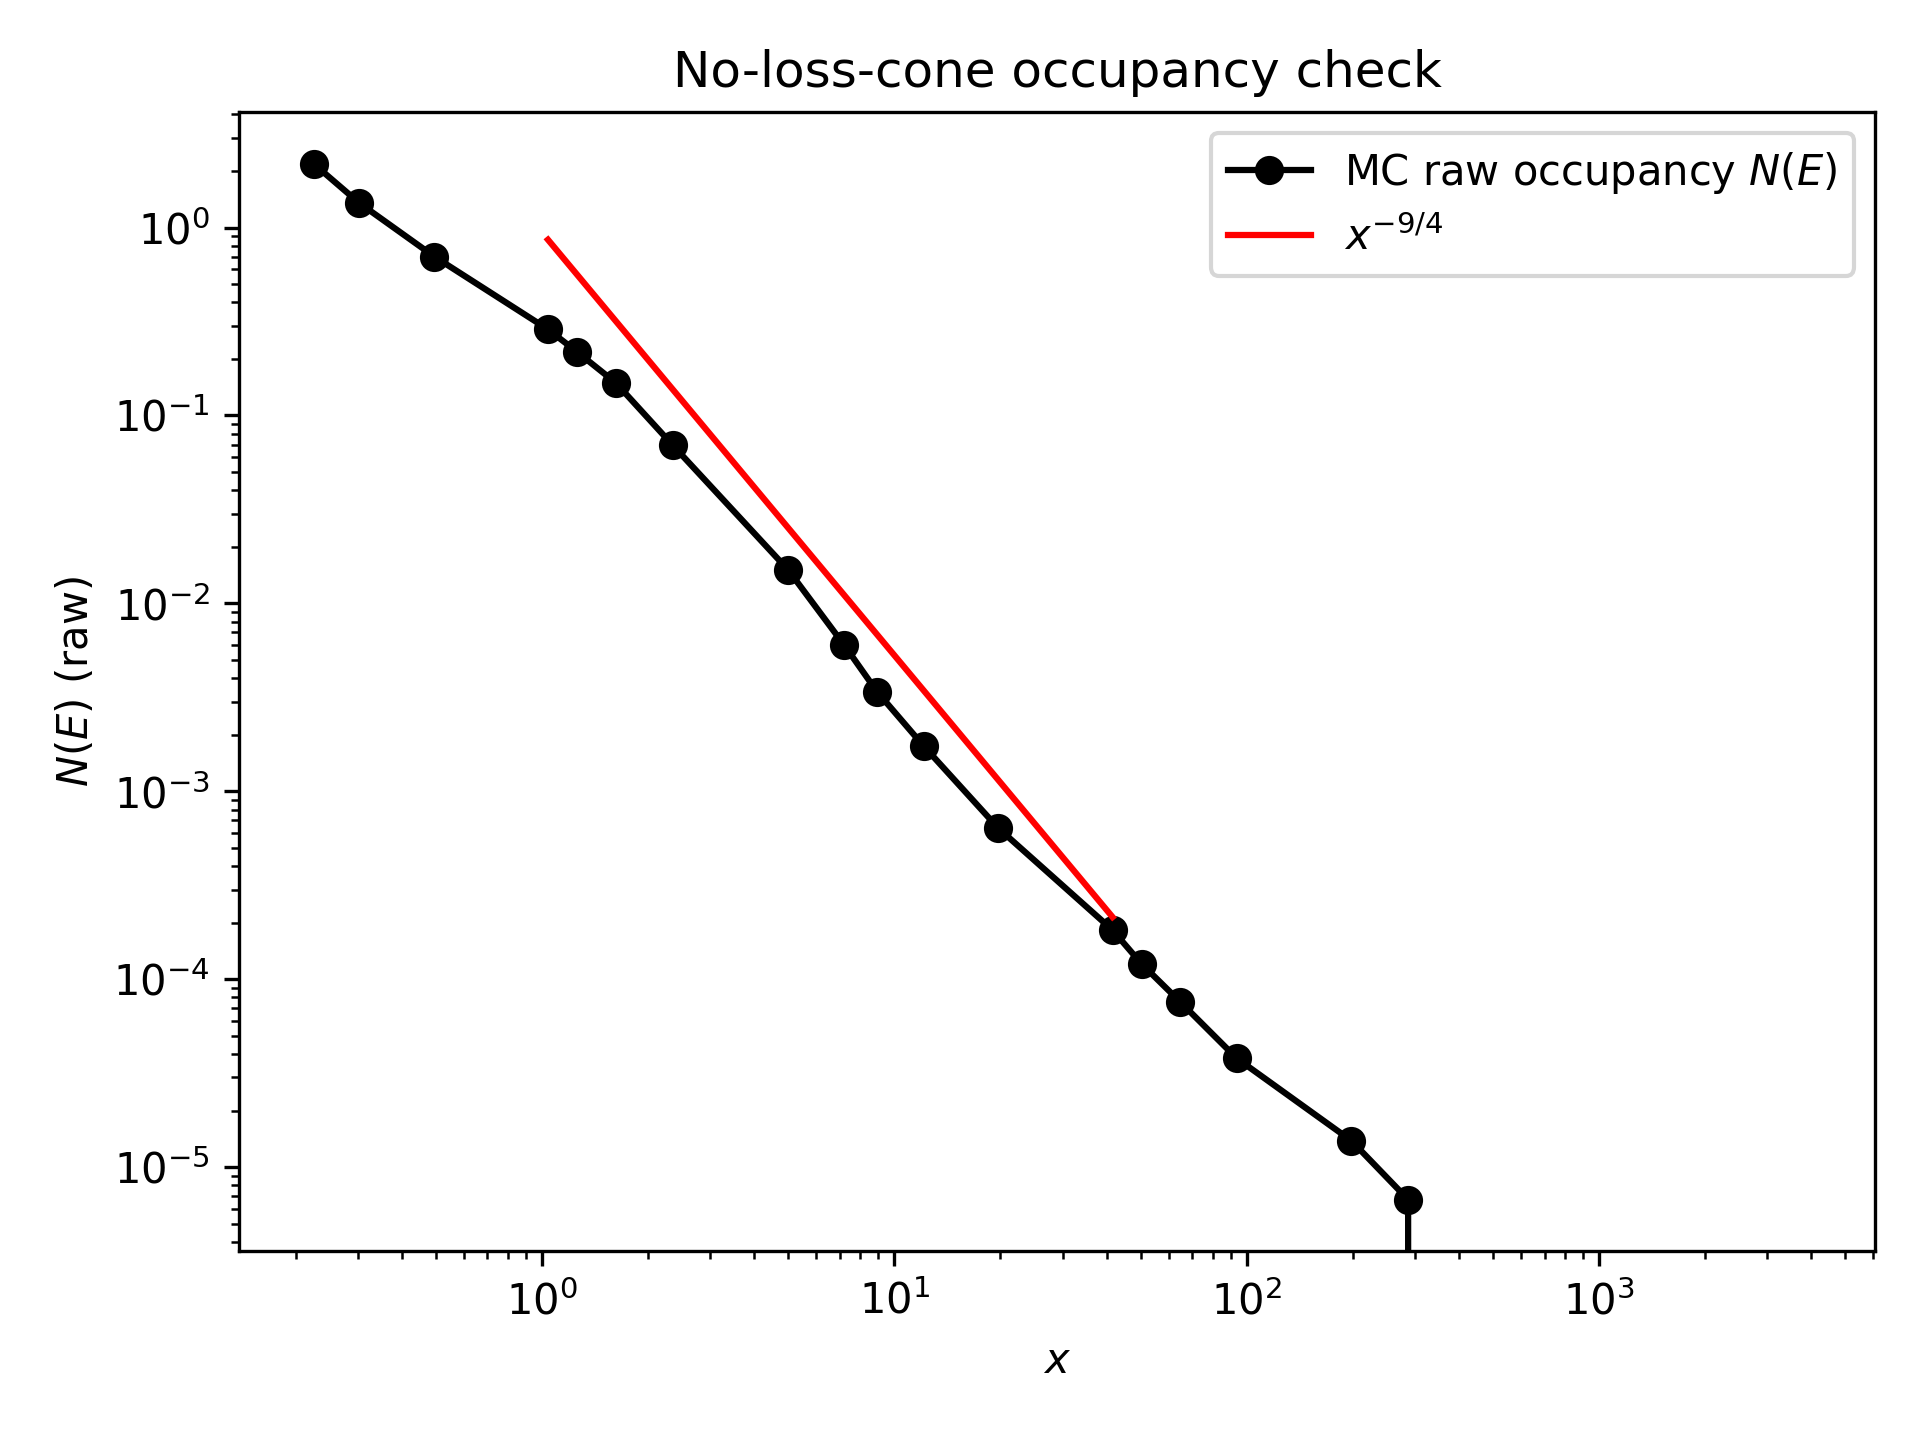
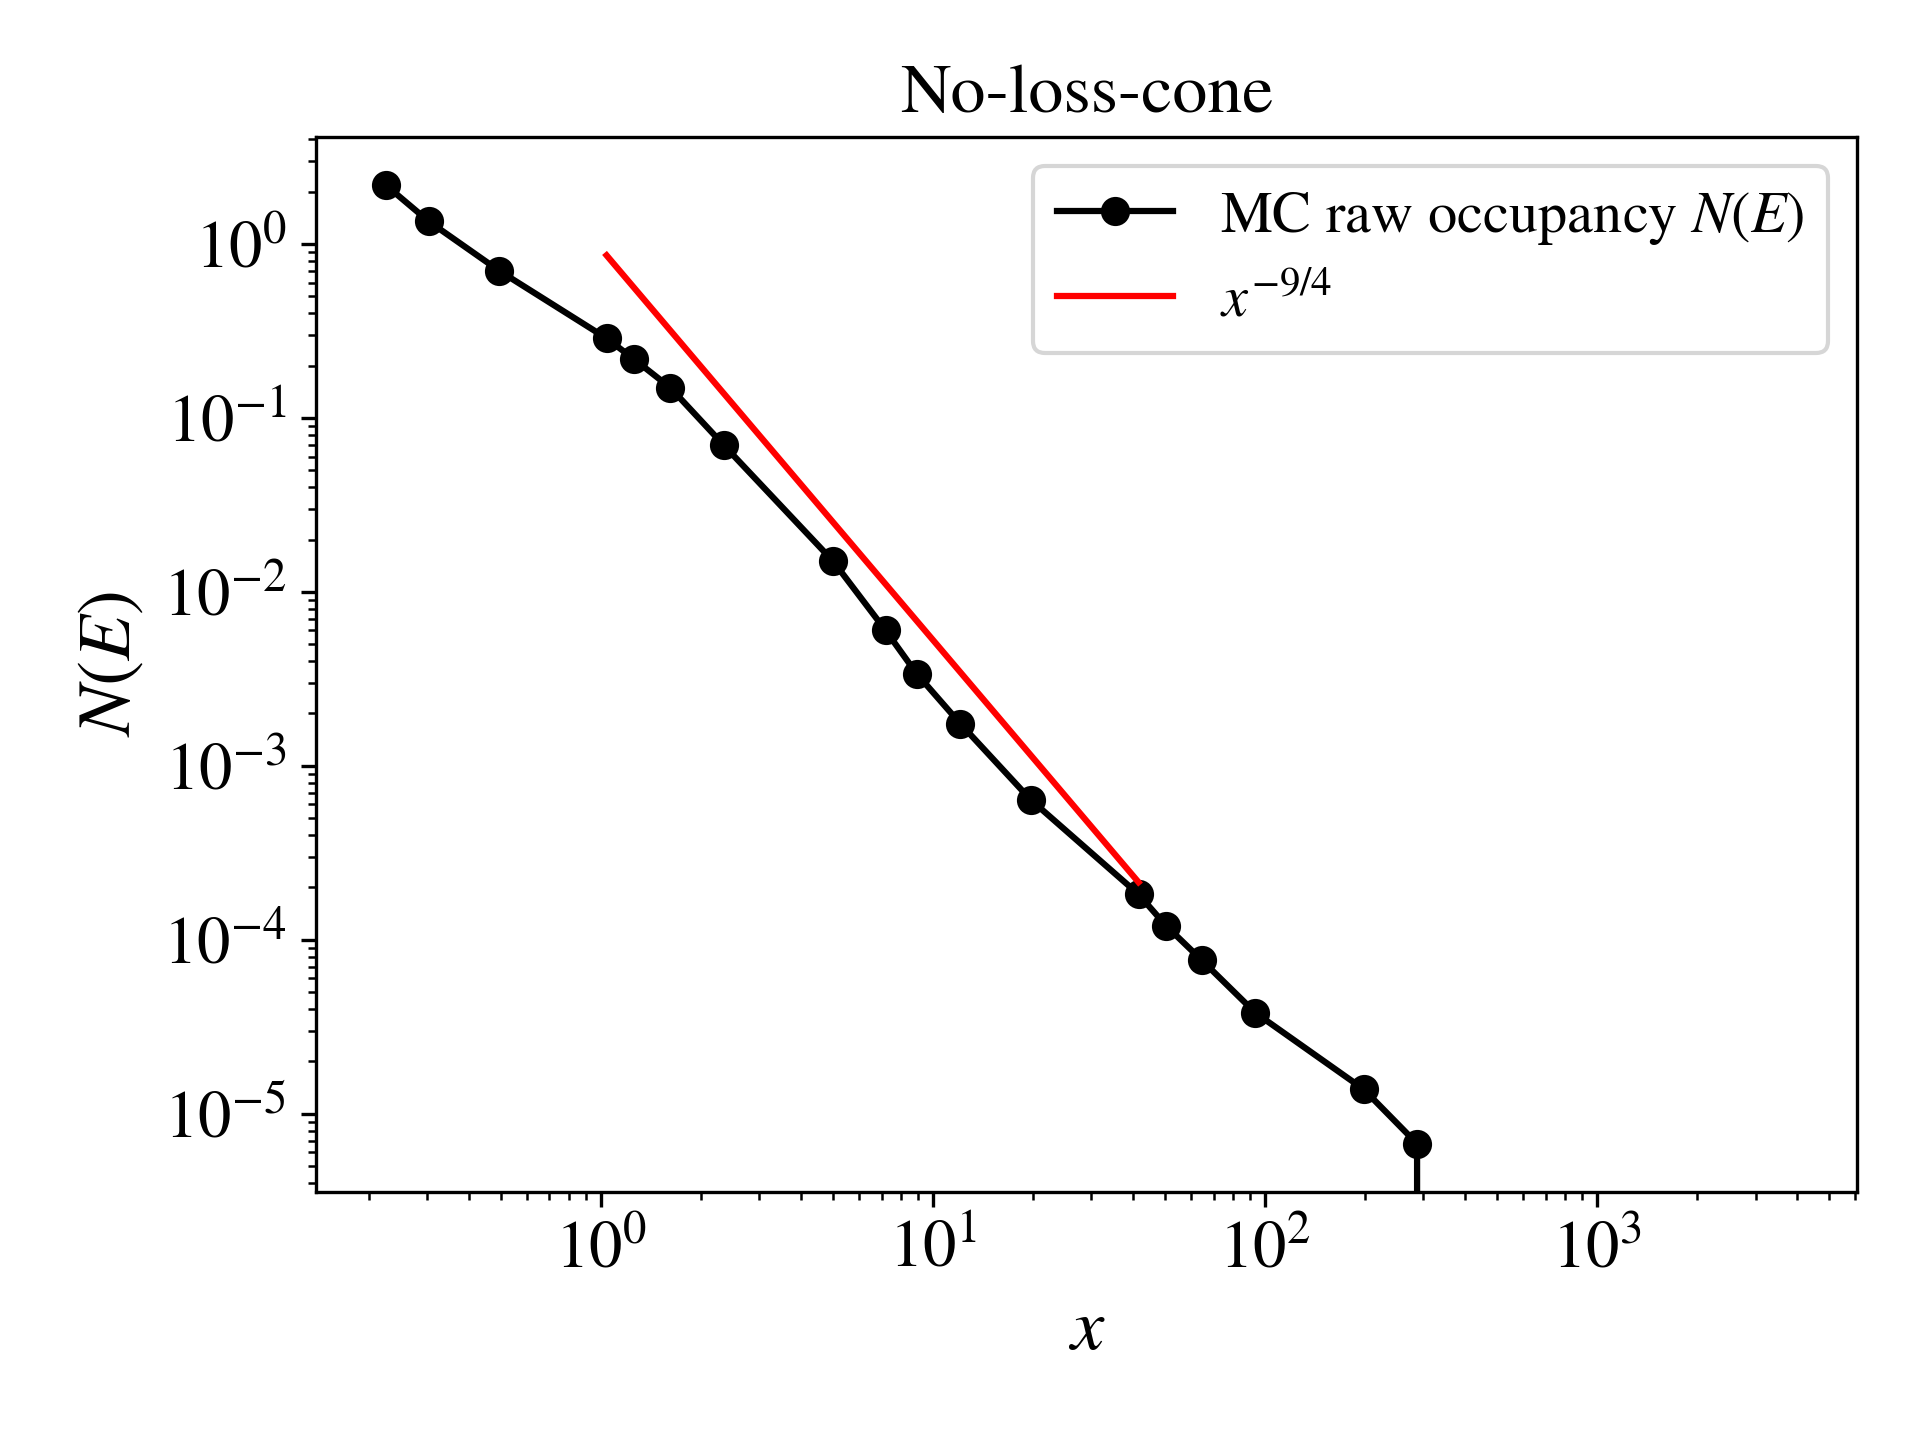
Adjusting the non-loss cone figure

diff --git a/Shapiro1978/apple-to-apple/fig3/plot_sm78_summary.py b/Shapiro1978/apple-to-apple/fig3/plot_sm78_summary.py
@@ -24,19 +24,19 @@ import matplotlib.pyplot as plt
 
 
 
-# import matplotlib as mpl
+import matplotlib as mpl
 
 
-# mpl.rcParams.update({
-#     "text.usetex": False,          # use MathText (portable)
-#     "font.family": "STIXGeneral",  # match math fonts
-#     "font.size": 14,
-#     "mathtext.fontset": "stix",
-#     "axes.unicode_minus": False,   # proper minus sign
-#     "axes.labelsize": 18,           # axis label text
-#     "xtick.labelsize": 16,          # x-tick labels
-#     "ytick.labelsize": 16,          # y-tick labels
-# })
+mpl.rcParams.update({
+    "text.usetex": False,          # use MathText (portable)
+    "font.family": "STIXGeneral",  # match math fonts
+    "font.size": 14,
+    "mathtext.fontset": "stix",
+    "axes.unicode_minus": False,   # proper minus sign
+    "axes.labelsize": 18,           # axis label text
+    "xtick.labelsize": 16,          # x-tick labels
+    "ytick.labelsize": 16,          # y-tick labels
+})
 
 LOGDIR = Path("logs")
 OUTDIR = Path("figs")
@@ -302,7 +302,7 @@ def plot_bw_noloss():
     OUTDIR.mkdir(parents=True, exist_ok=True)
 
     plt.figure()
-    plt.plot(x, n_raw,marker="o", linestyle="-", color="black", label="MC raw occupancy $N(E)$")
+    plt.plot(x, n_raw,marker="o", linestyle="-", color="black", label="MC occupancy $N(E)$")
 
     # Reference x^-2 line normalized at first x>=1 point
     mask = (x >= 1.0) & (n_raw > 0) &(x <= 50.0) 
@@ -316,8 +316,8 @@ def plot_bw_noloss():
     plt.xscale("log")
     plt.yscale("log")
     plt.xlabel("$x$")
-    plt.ylabel("$N(E)$ (raw)")
-    plt.title("No-loss-cone occupancy check")
+    plt.ylabel("$N(E)$")
+    plt.title("No-loss-cone")
     plt.legend()
     plt.tight_layout()
     plt.savefig(OUTDIR / "fig6_noloss_occupancy.png", dpi=300)
